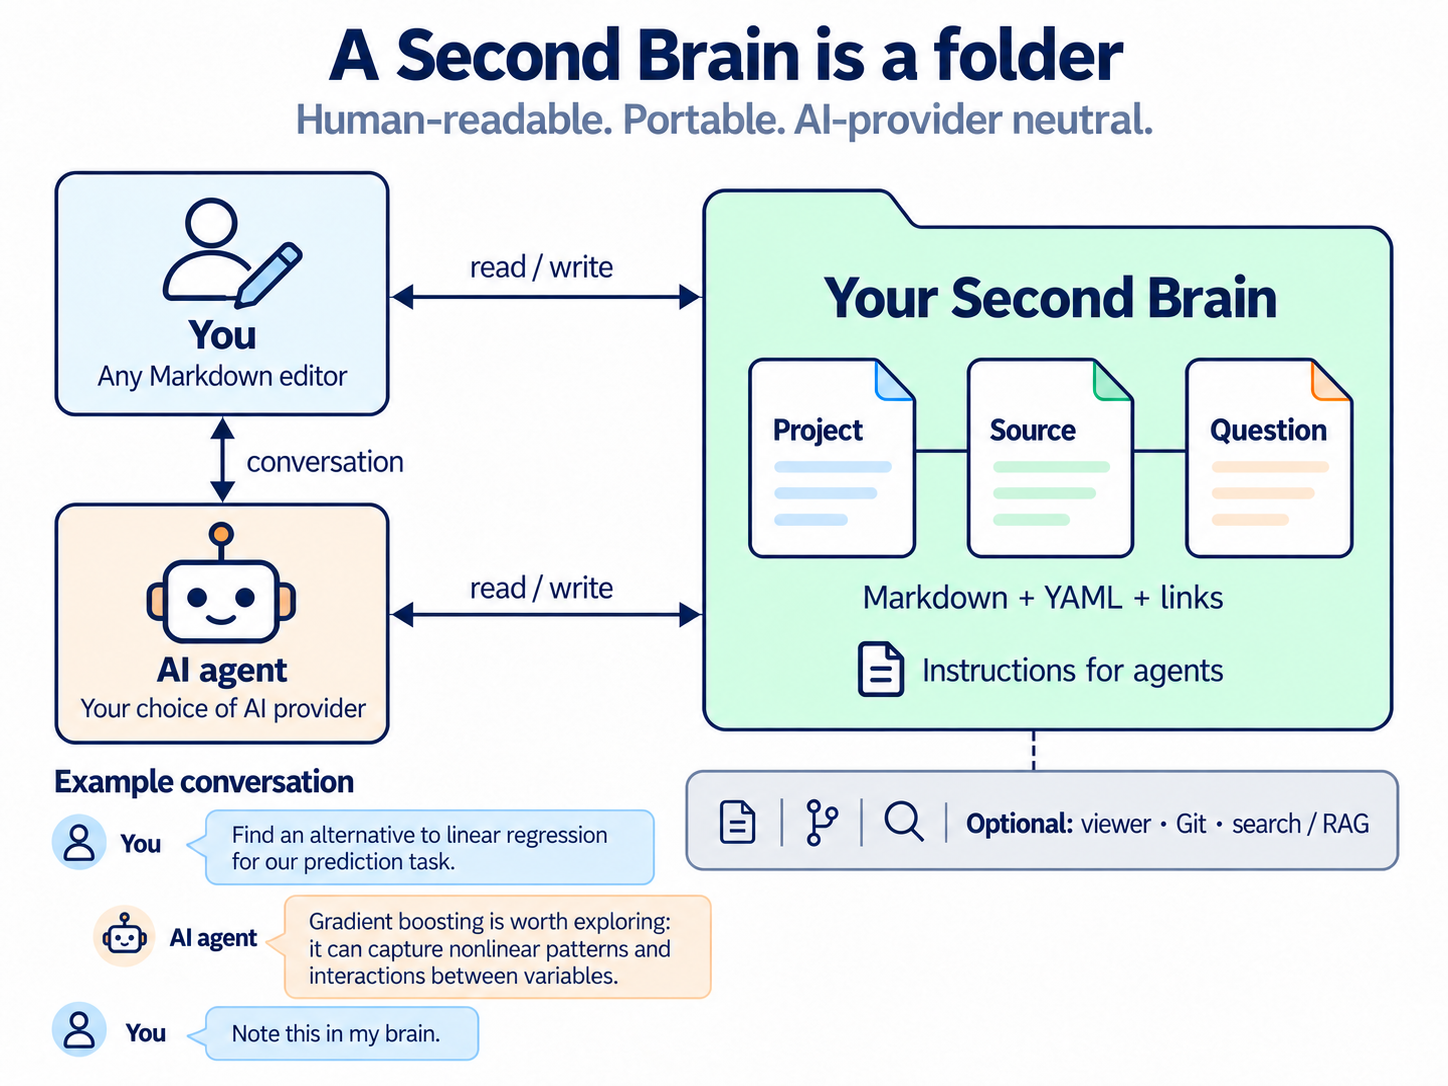
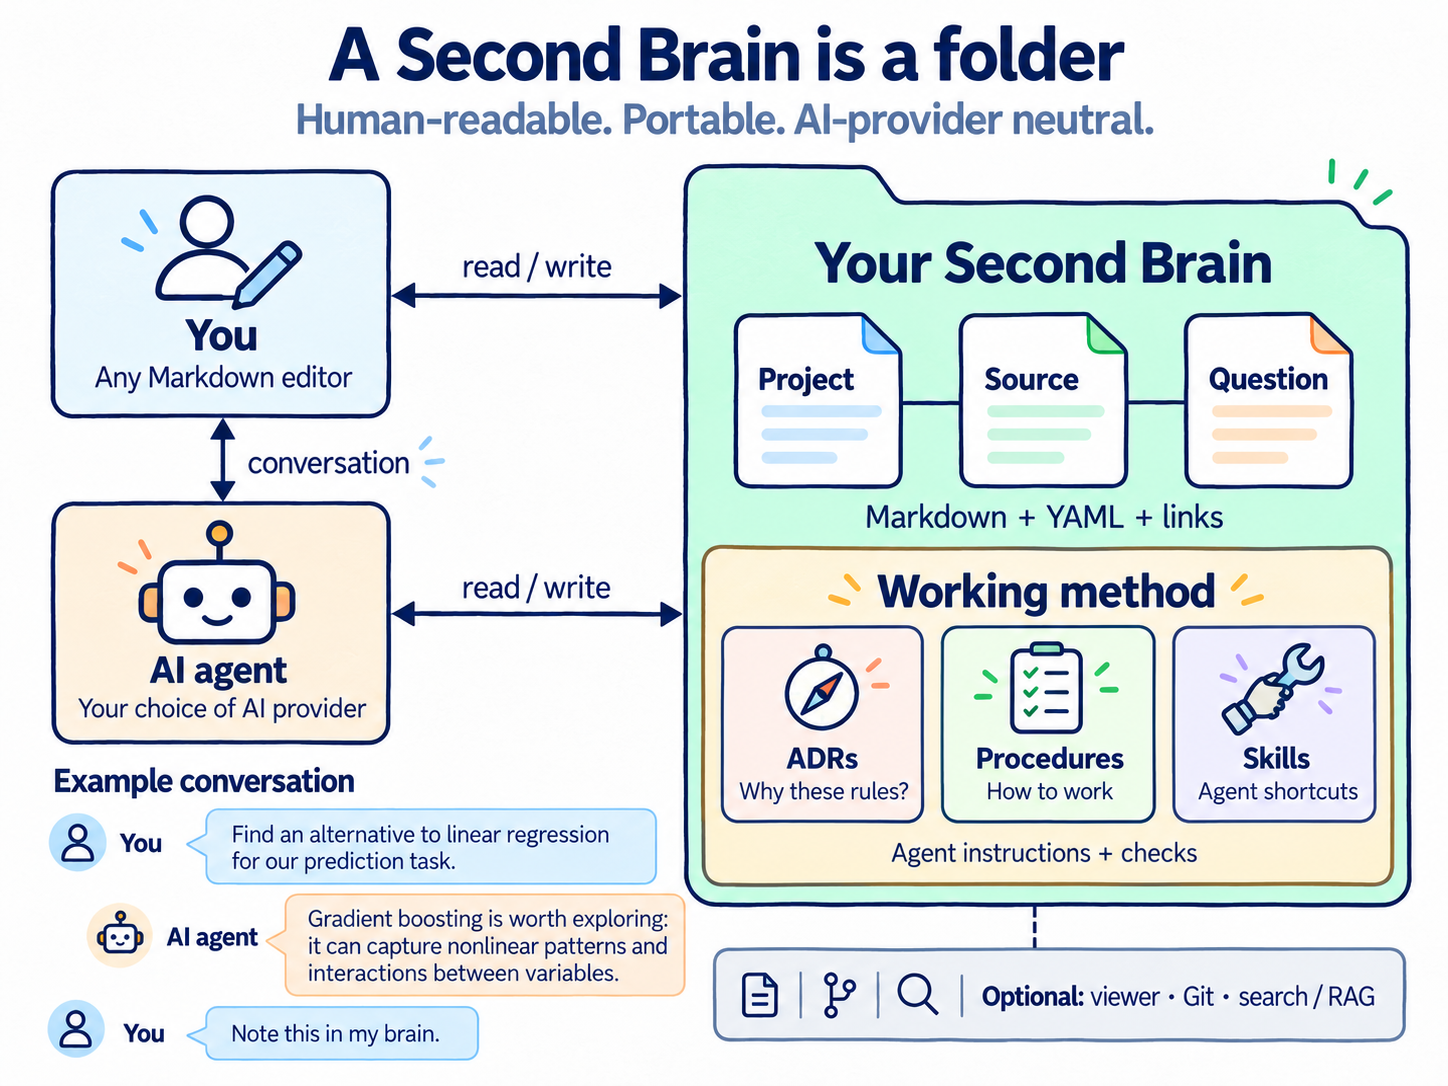
Show the working method in the Second Brain overview

diff --git a/README.md b/README.md
@@ -10,7 +10,7 @@ surface_for:
 
 A knowledge base made of **Markdown notes, YAML frontmatter and links**, independent of any AI provider: a folder of readable files you can copy, back up or move between tools, whose linked notes keep context, sources and decisions between conversations. You can use it by hand in any Markdown editor; a coding agent with filesystem access makes capture, retrieval and maintenance much easier. [Tolaria](https://tolaria.md/) offers an optional viewer, and [Brain Graph](https://github.com/mfoll/brain-graph) (a companion repository) draws the whole vault as an interactive map coloured by the Responsibility or Project each note rolls up to; it is how the hierarchy contract below was first seen. The repository installs no applications, enables no scheduled jobs and needs no search index.
 
-![A portable folder of linked Markdown notes, readable and writable directly by you or through an AI agent. An example conversation asks for an alternative to linear regression, suggests gradient boosting, and requests saving the idea. A viewer, Git and search or RAG are optional.](assets/second-brain-overview.png)
+![A friendly sketch of a portable Second Brain folder containing linked Markdown notes and a working method: ADRs explain why, Procedures describe how to work, and Skills offer agent shortcuts, supported by agent instructions and checks. You can read and write directly or through an AI agent. An example conversation asks for an alternative to linear regression, suggests gradient boosting, and requests saving the idea. A viewer, Git and search or RAG are optional.](assets/second-brain-overview.png)
 
 ## What it adds to Portent
 
